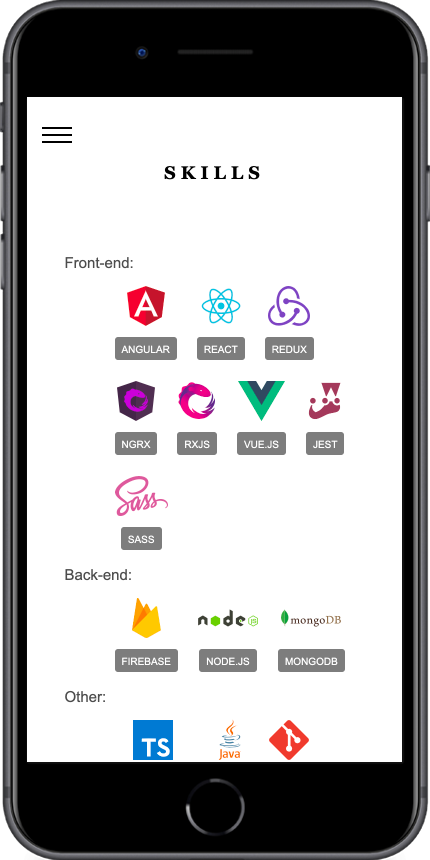
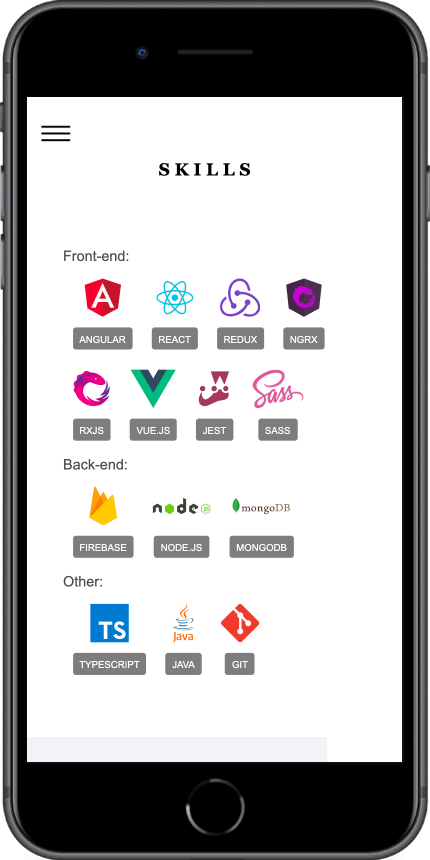
skills css fix

diff --git a/src/components/Skills.scss b/src/components/Skills.scss
@@ -40,3 +40,9 @@
     }
   }
 }
+
+@media only screen and (max-width: 600px) {
+  dd {
+    margin-inline-start: 0px;
+  }
+}
